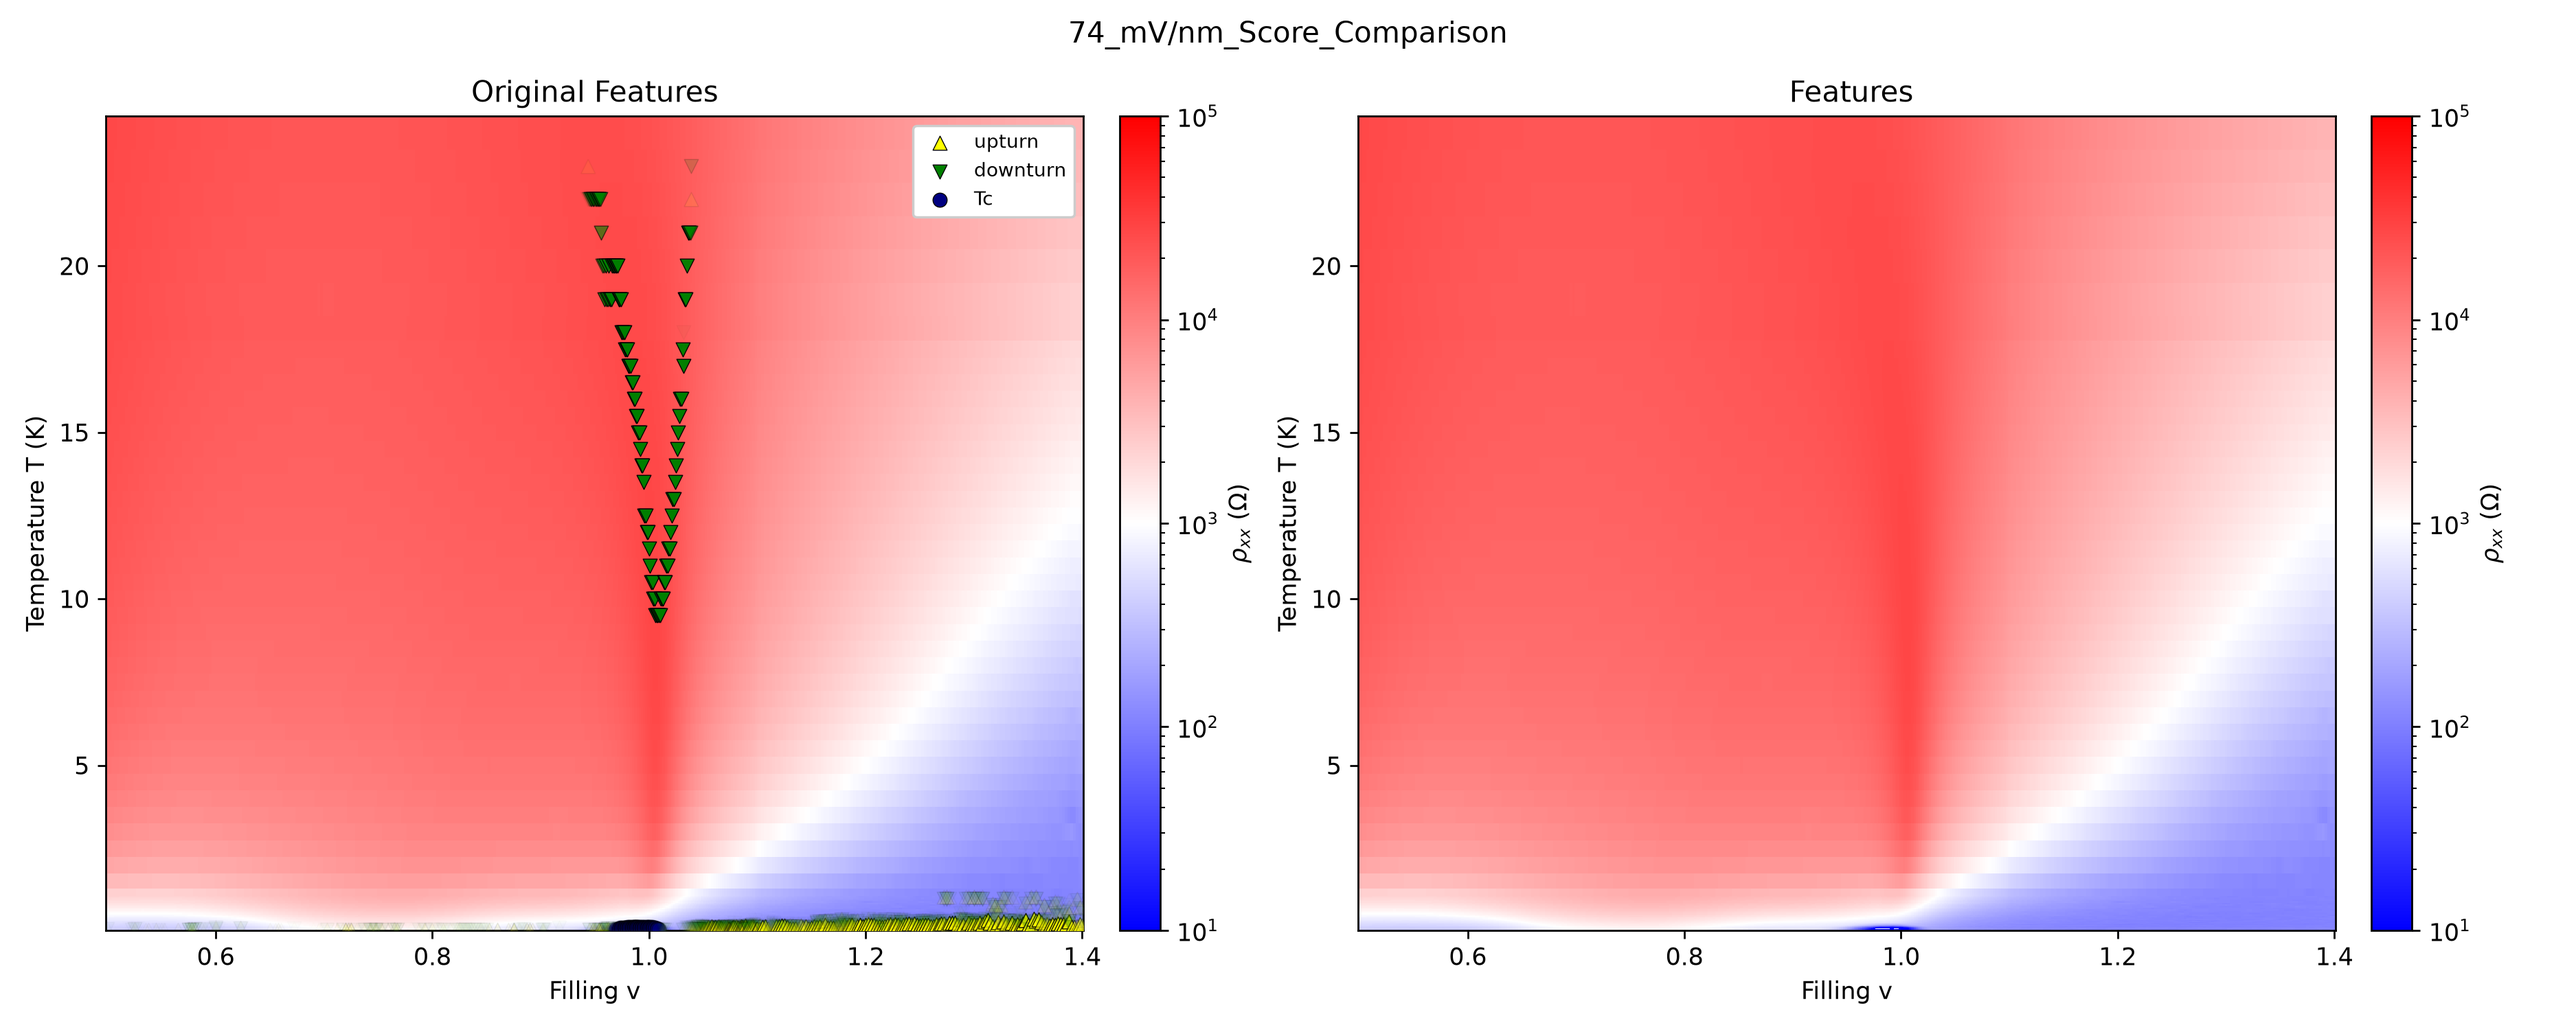
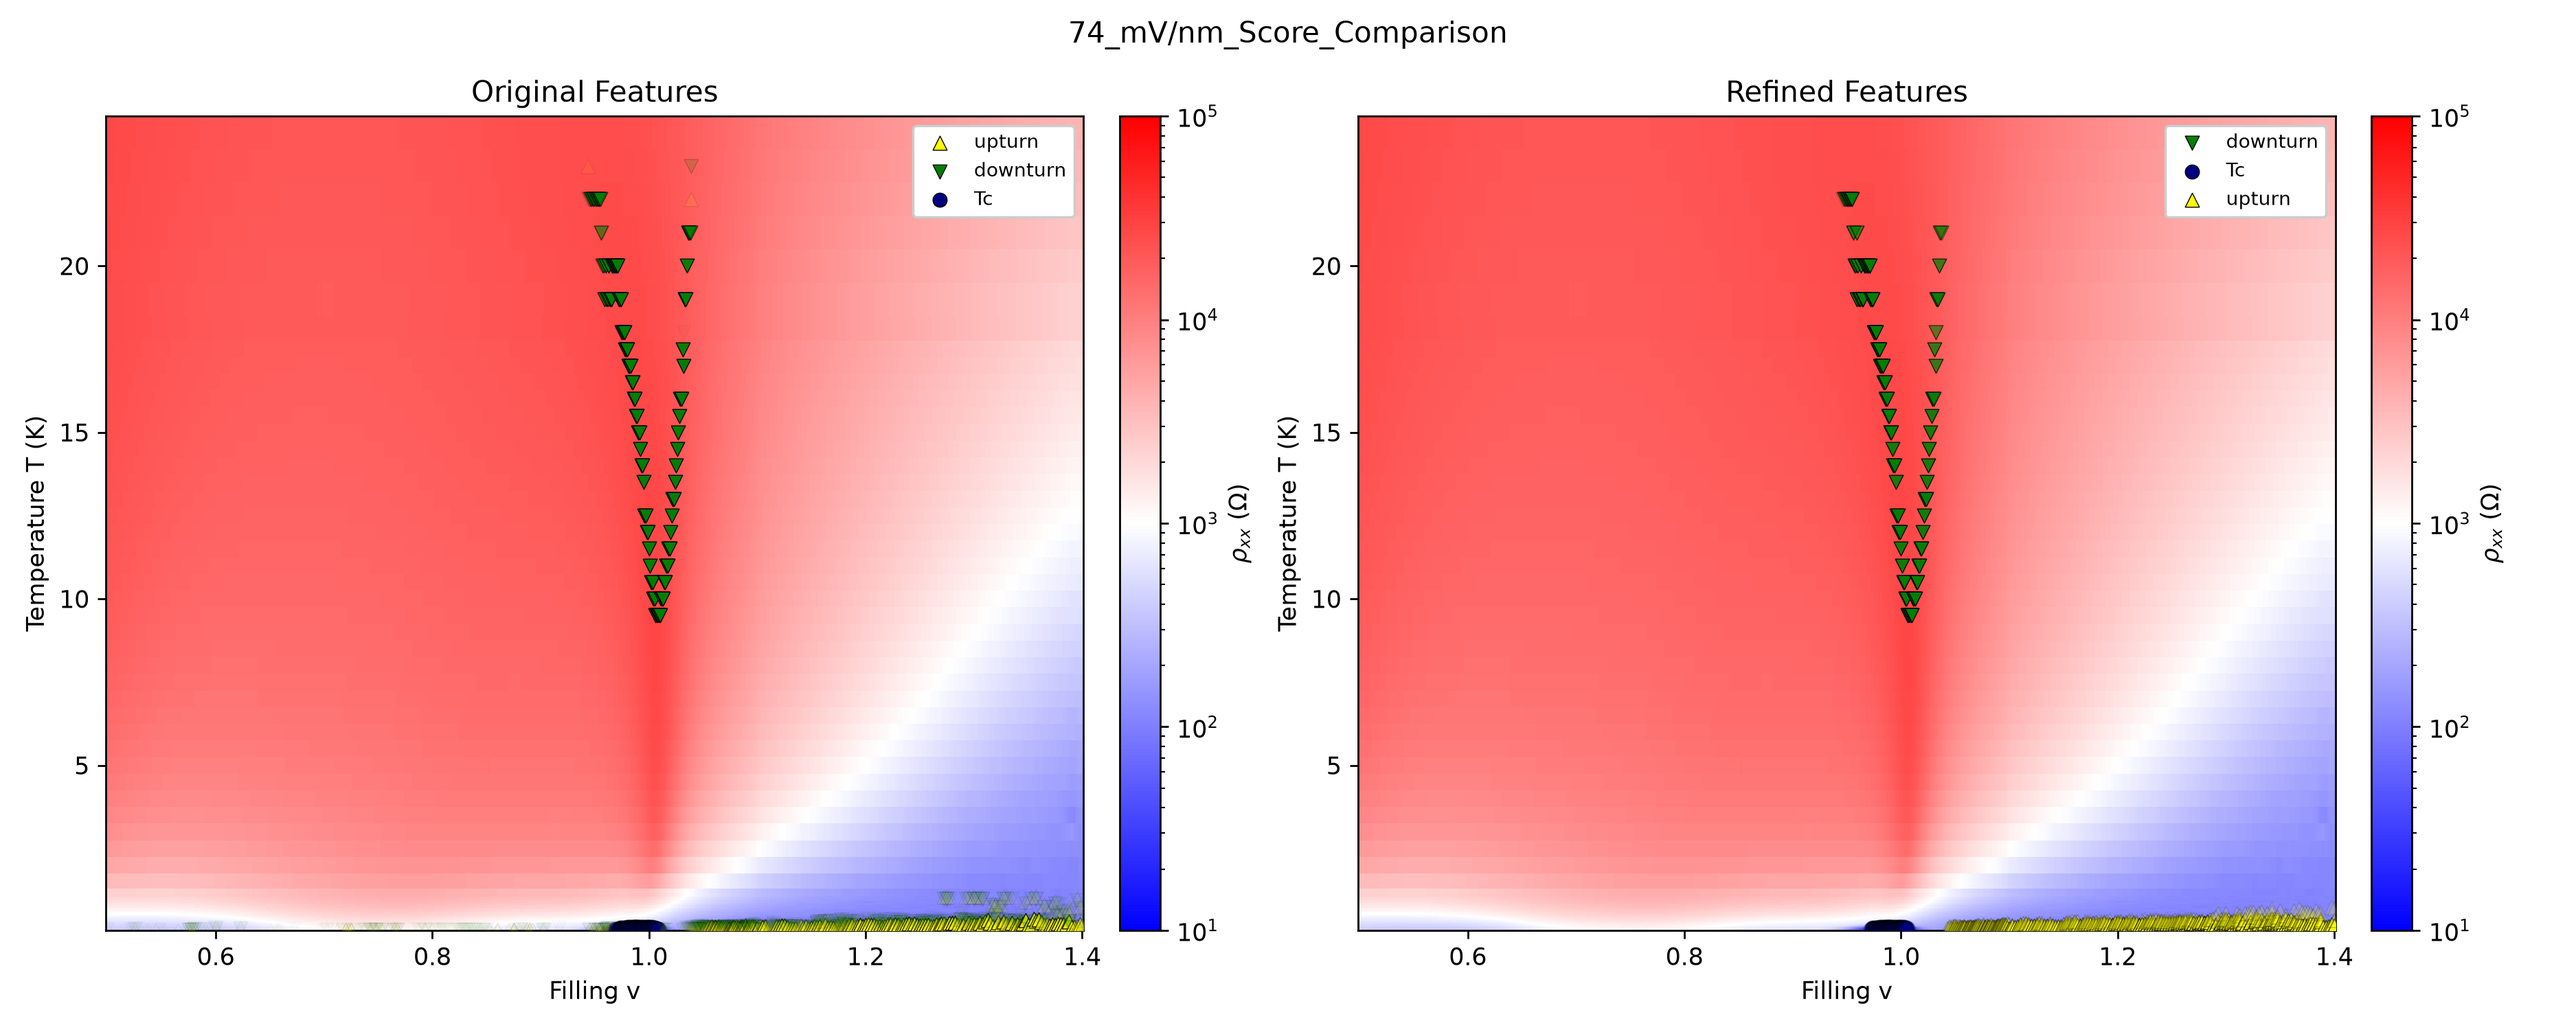
generated additional figures for slideshow (features comparision)

diff --git a/scripts/generate_figures.py b/scripts/generate_figures.py
@@ -26,7 +26,7 @@ from moire.draw_2d import draw_heatmap, overlay_features_heatmap, overlay_behavi
 from moire.update_scoring import update_extrema
 
 
-OUT = ROOT / Path("output") / Path("figures")
+OUT = ROOT / Path("output")
 IN = ROOT / Path("source_data")
 FIELDS = [87, 96, 99, 103, 74, 96.2, 151, 176]
 SELECT_FIELDS = [87, 96, 99, 103, 74, 96.2, 151, 176]
@@ -68,15 +68,15 @@ for field in SELECT_FIELDS:
 
     # ----- New Scoring Updates -----
 
-    # extrema = update_extrema(T, linecuts)
-    # datasets[-1]["extrema"] = extrema
+    extrema = update_extrema(T, linecuts)
+    datasets[-1]["extrema"] = extrema
 
-    # # getting fit range
-    # for linecut in linecuts:
-    #     linecut["behaviors"] = extract_fit_range(T, linecut)
-    #     linecut["exponent_fit"] = extract_local_fits(T, linecut)
+    # getting fit range
+    for linecut in linecuts:
+        linecut["behaviors"] = extract_fit_range(T, linecut)
+        linecut["exponent_fit"] = extract_local_fits(T, linecut)
 
-    #     linecut["features"] += extract_Tcoh(T, linecut)
+        linecut["features"] += extract_Tcoh(T, linecut)
 
 
 def draw_linecuts():
@@ -118,14 +118,14 @@ def draw_heatmaps():
 
     for dataset in datasets:
 
-        name = f"{dataset["E"]}_mV/nm_Score_Comparison"
-        fig, axes = generate_layout(2, title=name)
+        name = f"{dataset["E"]}_mV/nm_Features"
+        fig, axes = generate_layout(1, title=name)
 
         draw_heatmap(fig, axes[0], dataset["nu"], dataset["T"], dataset["rho"], title="Original Features")
         overlay_features_heatmap(axes[0], dataset["linecuts"], score_name="confidence")
 
-        draw_heatmap(fig, axes[1], dataset["nu"], dataset["T"], dataset["rho"], title=" Features")
-        # overlay_features_heatmap(axes[1], dataset["linecuts"], feature_name="features_new", score_name="score_15")
+        draw_heatmap(fig, axes[1], dataset["nu"], dataset["T"], dataset["rho"], title="Refined Features")
+        overlay_features_heatmap(axes[1], dataset["linecuts"], feature_name="features_new", score_name="score_15")
 
         path = OUT / Path("heatmaps_comparison")
         path.mkdir(exist_ok=True, parents=True)
